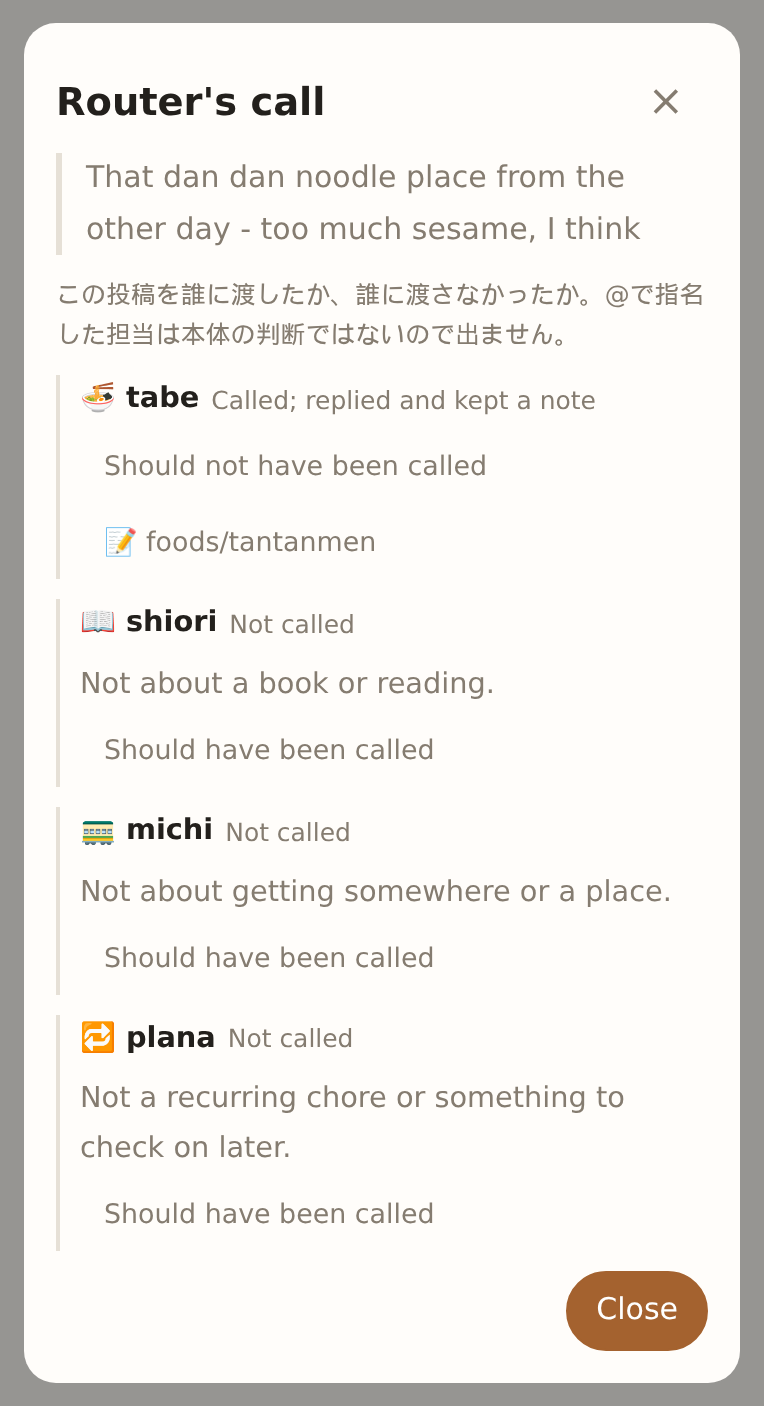
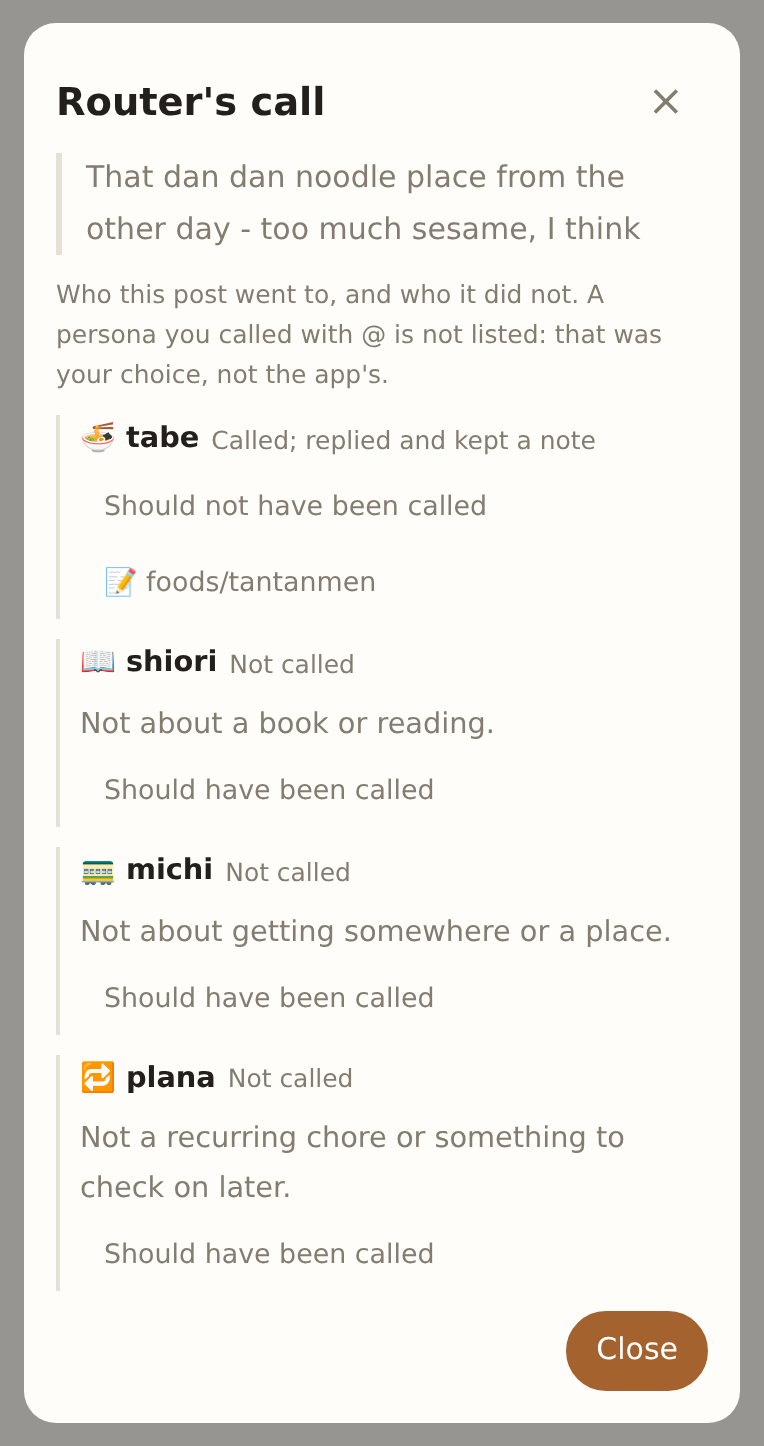
Show person personas in the manual, with captures
The manual now has a section on people in the everyday guide - how a
person is reached by its names and keywords, what it keeps, and that it
wakes on the morning of a meeting - and, in the advanced guide, how to
add keywords from the router's sheet, with a person's wakes noted under
when personas wake. Four captures in each language show a person's
card, the builder's draft, the router's call with the word matched, and
the keywords proposed from a missed post.

Taking them turned up a few things, fixed here: names and keywords were
joined with 、 in English too; a long dialog title ran under the close
button (the memory captures are retaken); the router's sheet showed its
explanation in Japanese to English readers (the English routing capture
is retaken and its size updated); and the sample gave tabe a travel
reason for passing over a souvenir post.

diff --git a/frontend/manual/index.html b/frontend/manual/index.html
@@ -185,6 +185,25 @@
             <img src="/captures/ja/persona-draft.png" alt="AIが下書きしたワイン担当を確認して保存する" loading="lazy" width="382" height="1089" />
             <figcaption>下書きは、担当すること、話し方、メモの分類、覚えること・返事をするタイミングの順に確認できます。</figcaption>
           </figure>
+          <h3 id="ja-people">人物の担当</h3>
+          <p>母や友人のように、<strong>特定の一人を覚える担当</strong>も作れます。<strong>AIと担当を作る</strong> で「友人の佐藤さんのことを覚えてほしい」のように頼むと、人物の担当の下書きができます。今ある担当を <strong>修正</strong> で <strong>人物の担当</strong> にすることもできます。</p>
+          <ul>
+            <li><strong>人物の担当は、本体の振り分けを通りません。</strong> かけらに <strong>呼び名</strong> か <strong>キーワード</strong> がそのまま書かれているときだけ届きます。写真から読み取った文字も対象です。<code>@呼び名</code> で指名することもできます。</li>
+            <li>全角・半角、ひらがな・カタカナ、末尾の「さん」「くん」などは区別しません。「佐藤」を登録すれば「佐藤くん」「さとうさん」にも届きます。</li>
+            <li>名前を出さない話も拾えるよう、キーワードには言い換えや似た言葉を並べます（例：釣り、つり、釣行、海釣り）。AI で作ると、呼び名の書き方の違いとキーワードの似た言葉をまとめて入れます。</li>
+            <li>「母」で「母校」の話が届くように、文字が合っただけで届くことがあります。担当はその人の話かを確かめ、関係なければ何もしません。</li>
+            <li>人物の担当はその人について分かったこと（好み、誕生日など）と、その人との出来事（会話、贈り物、約束、貸し借り）を覚えます。貸し借りや約束は、済んだと分かるまで忘れません。</li>
+            <li><strong>会う予定を書くと、担当はその日の朝に起きて</strong>、前回の出来事や済んでいないことを一言添えて知らせます。そのため人物の担当は予定を置く道具（schedule）を持ちます。</li>
+          </ul>
+          <figure>
+            <img src="/captures/ja/person-card.png" alt="人物の担当「佐藤さん」のカード。呼び名とキーワードの一覧（サンプル）" loading="lazy" width="382" height="353" />
+            <figcaption>人物の担当のカード。届くきっかけになる呼び名とキーワードが並びます（サンプル）。</figcaption>
+          </figure>
+          <figure>
+            <img src="/captures/ja/person-draft.png" alt="AI が下書きした佐藤さんの担当。呼び名、キーワード、担当の説明、メモの分類（サンプル）" loading="lazy" width="382" height="1302" />
+            <figcaption>AI の下書き。呼び名の書き方の違いと、キーワードの似た言葉も入ります（サンプル）。</figcaption>
+          </figure>
+          <p>届かなかったかけらがあれば、<strong>⚖</strong> の <strong>呼んでほしかった</strong> からキーワードを足せます（<a href="/manual/?guide=advanced#ja-people-keywords" data-lang-link>人物の担当にキーワードを足す</a>）。</p>
           <h3>使いながら直す</h3>
           <p>担当の <strong>AIで修正</strong> から「もっと短く返事してほしい」「なぜ気に入ったかも覚えてほしい」のように頼めます。組み込みの担当も同じように変えられ、それまでのメモはそのまま残ります。</p>
           <p>担当の <strong>削除</strong> は、その担当のメモも一緒に消します。元に戻せません。受け取りを止めたいだけなら、<strong>有効にする</strong> をOFFにしてください。</p>
@@ -306,6 +325,23 @@
             <figcaption>今の条件と、AI が書いた新しい条件（サンプル）。</figcaption>
           </figure>
           <p>変わるのは判定条件だけで、口調や覚え方は変わりません。振り分けに Jev を使っている場合（<a href="#ja-settings">設定とデータ</a>）は理由が表示されませんが、条件は同じ手順で直せます。</p>
+          <h3 id="ja-people-keywords">人物の担当にキーワードを足す</h3>
+          <p><a href="/manual/#ja-people" data-lang-link>人物の担当</a>には判定条件がなく、呼び名かキーワードが書かれたかけらだけが届きます。⚖ には、どの語で届いたかが「「佐藤さん」に一致」のように出ます。</p>
+          <figure>
+            <img src="/captures/ja/person-routing.png" alt="佐藤さんの担当が「佐藤さん」の一致で呼ばれたことを示す担当の判断（サンプル）" loading="lazy" width="382" height="462" />
+            <figcaption>どの語で届いたかが出ます（サンプル）。</figcaption>
+          </figure>
+          <ol>
+            <li>届かなかった人物の担当の行で <strong>呼んでほしかった</strong> を押します。今のキーワードが出ます。</li>
+            <li>どの語で呼んでほしいかを書き（空でもかまいません）、<strong>キーワードを作る</strong> を押します。AI がそのかけらに書かれている語を選び、似た言葉とあわせて足すキーワードを出します。</li>
+            <li>足すキーワードは手で直せます（読点区切り）。<strong>AIに変更を依頼</strong> もできます。</li>
+            <li><strong>OK</strong> で今のキーワードに足して保存し、同じかけらで確かめます。足した語がかけらにあれば、その担当に元のかけらを渡します。なければそう伝えるので、やり直します。</li>
+          </ol>
+          <figure>
+            <img src="/captures/ja/person-keywords.png" alt="「週末は海釣りに行くらしい」から AI が出した、足すキーワード（サンプル）" loading="lazy" width="382" height="377" />
+            <figcaption>今のキーワードと、AI が出した足すキーワード（サンプル）。</figcaption>
+          </figure>
+          <p>人物の担当には <strong>呼んでほしくなかった</strong> は出ません。届いてほしくない語は、担当の <strong>修正</strong> で呼び名やキーワードから消してください。</p>
         </section>
 
         <section id="ja-reply-fix">
@@ -331,7 +367,7 @@
             <table>
               <thead><tr><th>きっかけ</th><th>決める人</th><th>内容</th></tr></thead>
               <tbody>
-                <tr><td>かけらが届いたとき</td><td>本体（振り分け）</td><td>分野に当たる担当と、<code>@名前</code> で指名された担当が動きます。</td></tr>
+                <tr><td>かけらが届いたとき</td><td>本体（振り分け）</td><td>分野に当たる担当と、<code>@名前</code> で指名された担当が動きます。人物の担当は、呼び名かキーワードが書かれているときに動きます。</td></tr>
                 <tr><td><a href="/manual/#ja-daily" data-lang-link>毎日のチェックイン</a></td><td>本体</td><td>有効な担当が、7時〜21時のどこかで1日1回起きます。</td></tr>
                 <tr><td>担当が預けた予定</td><td>担当</td><td><code>schedule</code> を持つ担当が、自分の記録から時刻を決めて起きます。</td></tr>
               </tbody>
@@ -349,6 +385,7 @@
           <p>「外部エージェントを優先する」をONにした担当では、チェックインで何を整え、何を聞くかを Hermes が考えます。時間内に Hermes が応じなければ、内蔵モデルが代わりに考えます。</p>
           <h3 id="ja-tool-schedule">担当が預けた予定（schedule）</h3>
           <p>たとえば plana は、記録から「朝の薬は7時半ごろ」と分かったものにだけ予定を置き、その少しあとに起きます。まだ記録がなければ「そういえば朝の薬」と一言添え、済んでいれば黙ります。時刻の前に知らせるリマインダーではなく、催促もしません。あなたから「毎朝8時に知らせて」と頼む機能でもありません。</p>
+          <p><a href="/manual/#ja-people" data-lang-link>人物の担当</a>は、「来週土曜、佐藤さんと飲む」のような会う予定が書かれると、その日の朝に予定を置きます。起きたら前回の出来事や済んでいないこと（貸し借り、約束）を一言添えて知らせます。</p>
           <ul>
             <li>担当ごとに20件まで、30日先まで、1回きりか毎日です。</li>
             <li>予定は担当のカードに並びます。<strong>不要な予定は × で消せます。</strong></li>
@@ -655,6 +692,25 @@
             <img src="/captures/en/persona-draft.png" alt="Review and save a sample wine persona drafted by AI" loading="lazy" width="382" height="1115" />
             <figcaption>The draft: what it helps with, how it talks, the kinds of note it keeps, what it remembers, and when it replies.</figcaption>
           </figure>
+          <h3 id="en-people">People</h3>
+          <p>A persona can also <strong>keep one person</strong> in mind - your mother, a friend. Ask <strong>Create a persona with AI</strong> something like “Remember things about my friend Sato” and the draft is a person's persona. An existing persona can be turned into one with <strong>Edit</strong> and <strong>Keeps a person</strong>.</p>
+          <ul>
+            <li><strong>A person is never routed by the app.</strong> A fragment reaches it only when one of its <strong>names</strong> or <strong>keywords</strong> is written in it, text read from a photo included. You can also call it with <code>@name</code>.</li>
+            <li>Width, case, hiragana against katakana and a trailing さん or くん do not matter: 佐藤 also reaches 佐藤くん and さとうさん.</li>
+            <li>To catch posts that do not name them, list rewordings and near words as keywords (fishing, angling, sea fishing). The AI fills in the other spellings of the names and the near words of the keywords.</li>
+            <li>A word can match by accident, as 母 (mother) does in 母校 (alma mater). The persona checks whether the post is about the person and does nothing if it is not.</li>
+            <li>A person's persona remembers what it learns about them (tastes, birthday) and what happens with them (talks, gifts, promises, loans). Loans and promises are kept until you say they are settled.</li>
+            <li><strong>Mention meeting them and the persona wakes that morning</strong> to bring up what happened last time and anything still open. That is why a person's persona has the tool that places wakes (schedule).</li>
+          </ul>
+          <figure>
+            <img src="/captures/en/person-card.png" alt="The card of a person's persona, Sato, listing its names and keywords (sample data)" loading="lazy" width="382" height="353" />
+            <figcaption>A person's card lists the names and keywords that reach it (sample data).</figcaption>
+          </figure>
+          <figure>
+            <img src="/captures/en/person-draft.png" alt="A persona for Sato drafted by the AI: names, keywords, description and kinds of note (sample data)" loading="lazy" width="382" height="1379" />
+            <figcaption>The AI's draft, with other spellings of the names and near words for the keywords (sample data).</figcaption>
+          </figure>
+          <p>If a fragment did not reach them, add keywords from <strong>Should have been called</strong> in <strong>⚖</strong> (<a href="/manual/?guide=advanced#en-people-keywords" data-lang-link>Add keywords to a person</a>).</p>
           <h3>Adjust as you go</h3>
           <p>Use <strong>Edit with AI</strong> on a persona to say “Give shorter replies” or “Remember why I liked a wine, too.” Built-in personas can be edited the same way, and their notes carry over.</p>
           <p><strong>Delete</strong> removes the persona together with its notes, and cannot be undone. To stop it receiving posts, just turn off <strong>Enable</strong>.</p>
@@ -760,7 +816,7 @@
           <h2>1. Fix who gets a post</h2>
           <p>The app decides which personas get each fragment. Tap <strong>⚖</strong> on one of your posts or replies to see who was called and, for each one that was not, a one-line reason. A persona you mentioned with <code>@name</code> is not listed: that was your call.</p>
           <figure>
-            <img src="/captures/en/routing.png" alt="The router's call on a noodle post: tabe was called, and why michi, shiori and plana were not (sample data)" loading="lazy" width="382" height="703" />
+            <img src="/captures/en/routing.png" alt="The router's call on a noodle post: tabe was called, and why michi, shiori and plana were not (sample data)" loading="lazy" width="382" height="723" />
             <figcaption>Who was called, and why the others were not (sample data).</figcaption>
           </figure>
           <p>For each persona that was called you see whether it has finished, replied, or kept a note. For one that stayed silent, <strong>A reply was wanted</strong> leads to <a href="#en-reply-fix">fixing how it replies</a>.</p>
@@ -776,6 +832,23 @@
             <figcaption>The current condition and the AI's new one (sample data).</figcaption>
           </figure>
           <p>Only the condition changes; tone and memory rules stay. When routing uses Jev (<a href="#en-settings">Settings and data</a>), no reasons are shown, but conditions are fixed the same way.</p>
+          <h3 id="en-people-keywords">Add keywords to a person</h3>
+          <p>A <a href="/manual/#en-people" data-lang-link>person's persona</a> has no condition: only fragments with one of its names or keywords reach it. In ⚖ the word it was reached by is shown, as in Matched “Sato”.</p>
+          <figure>
+            <img src="/captures/en/person-routing.png" alt="The router's call showing Sato's persona called because the post matched “Sato” (sample data)" loading="lazy" width="382" height="457" />
+            <figcaption>The word it was reached by is shown (sample data).</figcaption>
+          </figure>
+          <ol>
+            <li>Tap <strong>Should have been called</strong> on the person's row. The current keywords are shown.</li>
+            <li>Say which words should call them (or leave it empty) and tap <strong>Make keywords</strong>. The AI picks words written in the fragment and proposes them with their near words.</li>
+            <li>Edit the keywords to add by hand (comma-separated), or use <strong>Ask the AI to change it</strong>.</li>
+            <li><strong>OK</strong> adds them to the saved keywords and checks the same fragment. If one of them is in it, the persona gets the fragment; if not, you are told and can try again.</li>
+          </ol>
+          <figure>
+            <img src="/captures/en/person-keywords.png" alt="Keywords to add, proposed by the AI from “Apparently going sea fishing this weekend” (sample data)" loading="lazy" width="382" height="406" />
+            <figcaption>The current keywords and the ones the AI proposes to add (sample data).</figcaption>
+          </figure>
+          <p><strong>Should not have been called</strong> is not offered for a person. Remove a word you do not want from the names or keywords with <strong>Edit</strong>.</p>
         </section>
 
         <section id="en-reply-fix">
@@ -801,7 +874,7 @@
             <table>
               <thead><tr><th>Trigger</th><th>Decided by</th><th>What happens</th></tr></thead>
               <tbody>
-                <tr><td>A fragment arrives</td><td>The app (routing)</td><td>Personas whose subject matches, and any you mentioned with <code>@name</code>, act.</td></tr>
+                <tr><td>A fragment arrives</td><td>The app (routing)</td><td>Personas whose subject matches, and any you mentioned with <code>@name</code>, act. A person's persona acts when one of its names or keywords is written.</td></tr>
                 <tr><td><a href="/manual/#en-daily" data-lang-link>Daily check-in</a></td><td>The app</td><td>Each active persona wakes once a day, somewhere between 7:00 and 21:00.</td></tr>
                 <tr><td>A persona's own schedule</td><td>The persona</td><td>A persona with <code>schedule</code> picks a time from its own records.</td></tr>
               </tbody>
@@ -819,6 +892,7 @@
           <p>For a persona that prefers the external agent, Hermes decides what to tidy and what to ask at check-in. If Hermes does not respond in time, the built-in model plans instead.</p>
           <h3 id="en-tool-schedule">A persona's own schedule (schedule)</h3>
           <p>plana, for example, sets one only for something its records place at a usual time - “morning medicine around 7:30” - and wakes shortly after. If nothing has been recorded yet it adds “the morning medicine, by the way”; if it has, it stays quiet. This is not an advance reminder and it does not nag. It is also not a way for you to ask “tell me every morning at 8.”</p>
+          <p>A <a href="/manual/#en-people" data-lang-link>person's persona</a> sets one for the morning of a meeting you mention, such as “drinks with Sato next Saturday.” On waking it brings up what happened last time and anything still open, like a loan or a promise.</p>
           <ul>
             <li>Up to 20 per persona, up to 30 days ahead, once or daily.</li>
             <li>Schedules are listed on the persona's card. <strong>Remove one you do not want with ×.</strong></li>

diff --git a/frontend/src/persona-editor.js b/frontend/src/persona-editor.js
@@ -24,6 +24,11 @@ export function splitTerms(text) {
   return String(text || "").split(/[,，、\n]+/).map((term) => term.trim()).filter(Boolean);
 }
 
+// joinTerms writes them back the way the language lists things.
+export function joinTerms(terms) {
+  return (terms || []).join(getLanguage() === "ja" ? "、" : ", ");
+}
+
 export function showPersonaEditor({ persona, toolNames = [], onSave, getSettings = () => ({}), ai = false }) {
   const opener = document.activeElement;
   const original = { ...persona, tools: [...(persona.tools || [])], kind: persona.kind || "", aliases: [...(persona.aliases || [])], keywords: [...(persona.keywords || [])] };
@@ -56,7 +61,7 @@ export function showPersonaEditor({ persona, toolNames = [], onSave, getSettings
   const termBox = el("div");
   for (const field of termFields) {
     const input = el("textarea", { class: "skill-input", rows: field.rows, maxlength: 4000 });
-    input.value = original[field.key].join("、");
+    input.value = joinTerms(original[field.key]);
     input.readOnly = ai;
     input.addEventListener("input", () => markChanged(field.key));
     terms[field.key] = input;
@@ -126,7 +131,7 @@ export function showPersonaEditor({ persona, toolNames = [], onSave, getSettings
   function shown(key, value) {
     if (key === "tools") return uniqueTools(value || []).map((name) => t(toolLabel(name))).join(" / ") || t("（なし）");
     if (key === "kind") return t(value === "person" ? "人物の担当" : "人物ではない担当");
-    if (Array.isArray(value)) return value.join("、") || t("（なし）");
+    if (Array.isArray(value)) return joinTerms(value) || t("（なし）");
     return value || "";
   }
 
@@ -168,7 +173,7 @@ export function showPersonaEditor({ persona, toolNames = [], onSave, getSettings
     markChanged("tools");
     if (typeof draft.kind === "string") person.checked = draft.kind === "person";
     for (const field of termFields) {
-      if (Array.isArray(draft[field.key])) terms[field.key].value = draft[field.key].join("、");
+      if (Array.isArray(draft[field.key])) terms[field.key].value = joinTerms(draft[field.key]);
       markChanged(field.key);
     }
     showKind();

diff --git a/frontend/stories/fixtures.js b/frontend/stories/fixtures.js
@@ -151,6 +151,7 @@ const PERSON = {
     note: "「釣り」の話はだいたい佐藤さんのこと。",
     added: ["海釣り", "釣り", "つり", "釣行"],
     missed: "呼び名・キーワードが投稿にありませんでした",
+    notFood: "食べものや飲食店の話ではありません。",
     builderMessage: "佐藤さんの担当の案を作りました。呼び名の書き方の違いと、キャンプまわりの言い換えも入れています。使ってからAIで修正できます。",
     builderRequest: "友人の佐藤健二さんのことを覚えてほしい。最近キャンプを始めたらしい。",
   },
@@ -166,6 +167,7 @@ const PERSON = {
     note: "Talk about fishing is usually about Sato.",
     added: ["sea fishing", "fishing", "angling"],
     missed: "None of the names or keywords were in the post",
+    notFood: "Not about food or a place to eat.",
     builderMessage: "Here is a persona for Sato, with other spellings of his name and near words for camping. Try it first and refine it later with AI.",
     builderRequest: "Remember things about my friend Kenji Sato. He has just taken up camping.",
   },
@@ -198,7 +200,7 @@ export function personRouting() {
   return {
     q1: { recorded: true,
       delivered: [{ id: "sato", name, icon, person: true, heard: name, done: true, spoke: true, noted: true, notes: ["events/hokkaido-souvenir.md"] }],
-      excluded: [{ id: "gourmet", name: "tabe", icon: "🍜", reason: words().notTravel }] },
+      excluded: [{ id: "gourmet", name: "tabe", icon: "🍜", reason: w.notFood }] },
     q2: { recorded: true, delivered: [],
       excluded: [{ id: "sato", name, icon, person: true, reason: w.missed }] },
   };

diff --git a/frontend/src/i18n.js b/frontend/src/i18n.js
@@ -212,6 +212,7 @@ const EN = {
   "呼び名（読点区切り。名前・あだ名・続柄・かな表記）": "Names (comma-separated: name, nickname, relation, other spellings)",
   "キーワード（読点区切り。類似語や言い換えも並べると届きやすくなります）": "Keywords (comma-separated; listing near words and rewordings helps posts reach them)",
   "「{0}」に一致": "Matched \"{0}\"",
+  "この投稿を誰に渡したか、誰に渡さなかったか。@で指名した担当は本体の判断ではないので出ません。": "Who this post went to, and who it did not. A persona you called with @ is not listed: that was your choice, not the app's.",
   "次の投稿がこの人物の担当に届くよう、キーワードを足してほしい：「{0}」": "Add keywords so that this post reaches this person's persona: \"{0}\"",
   "投稿に書かれている語をそのままの形で少なくとも1つ選び、その言い換えや類似語とあわせて keywords に加えてください。": "Pick at least one word exactly as it is written in the post, and add it to keywords together with its rewordings and near words.",
   "既存の呼び名とキーワード、他の項目は変えないでください。": "Keep the existing names and keywords, and leave everything else as it is.",

diff --git a/frontend/src/condition-fix.js b/frontend/src/condition-fix.js
@@ -14,7 +14,7 @@
 import { clear, el, toast, dialogCloseButton, mountOverlay, unmountOverlay } from "./dom.js";
 import { api } from "./api.js";
 import { getLanguage, t } from "./i18n.js";
-import { splitTerms } from "./persona-editor.js";
+import { joinTerms, splitTerms } from "./persona-editor.js";
 
 const EXCERPT = 300;
 
@@ -125,11 +125,12 @@ export function showConditionFix({ persona, entry, direction, reason = "", onSav
   // added is what a proposal adds to the saved keywords, as the text shown.
   function added(keywords) {
     const have = new Set(saved.keywords || []);
-    return (Array.isArray(keywords) ? keywords : []).map((word) => String(word).trim()).filter((word) => word && !have.has(word)).join("、");
+    const words = (Array.isArray(keywords) ? keywords : []).map((word) => String(word).trim()).filter((word) => word && !have.has(word));
+    return joinTerms(words);
   }
 
   // current is what the dialog changes, as it stands.
-  const current = () => person ? (saved.keywords || []).join("、") || t("（なし）") : saved.domain || "";
+  const current = () => person ? joinTerms(saved.keywords) || t("（なし）") : saved.domain || "";
   const currentLabel = person ? "今のキーワード" : "今の判定条件";
 
   // 1. Why. The post, what the router said, the condition as it is, and room

diff --git a/frontend/lp/index.html b/frontend/lp/index.html
@@ -177,7 +177,7 @@
           </div>
           <figure class="shot">
             <img class="ja" src="/captures/ja/routing.png" alt="担当の判断。tabe が呼ばれ、michi・shiori・plana が呼ばれなかった理由（サンプル）" loading="lazy" width="382" height="677" />
-            <img class="en" src="/captures/en/routing.png" alt="The router's call: tabe was called, and why michi, shiori and plana were not (sample data)" loading="lazy" width="382" height="703" />
+            <img class="en" src="/captures/en/routing.png" alt="The router's call: tabe was called, and why michi, shiori and plana were not (sample data)" loading="lazy" width="382" height="723" />
           </figure>
         </div>
 

diff --git a/frontend/src/styles.css b/frontend/src/styles.css
@@ -457,6 +457,9 @@ input[type="text"], input[type="search"], input[type="email"], input[type="passw
    push the sheet wider than the screen. */
 .dialog > * { min-width: 0; }
 .dialog h3 { margin: 0; }
+/* The close button floats over the dialog's first line; a long title wraps
+   before it instead of running under it. */
+.dialog-close + h2, .dialog-close + h3 { padding-right: 44px; }
 #toasts {
   position: fixed;
   left: 50%;
